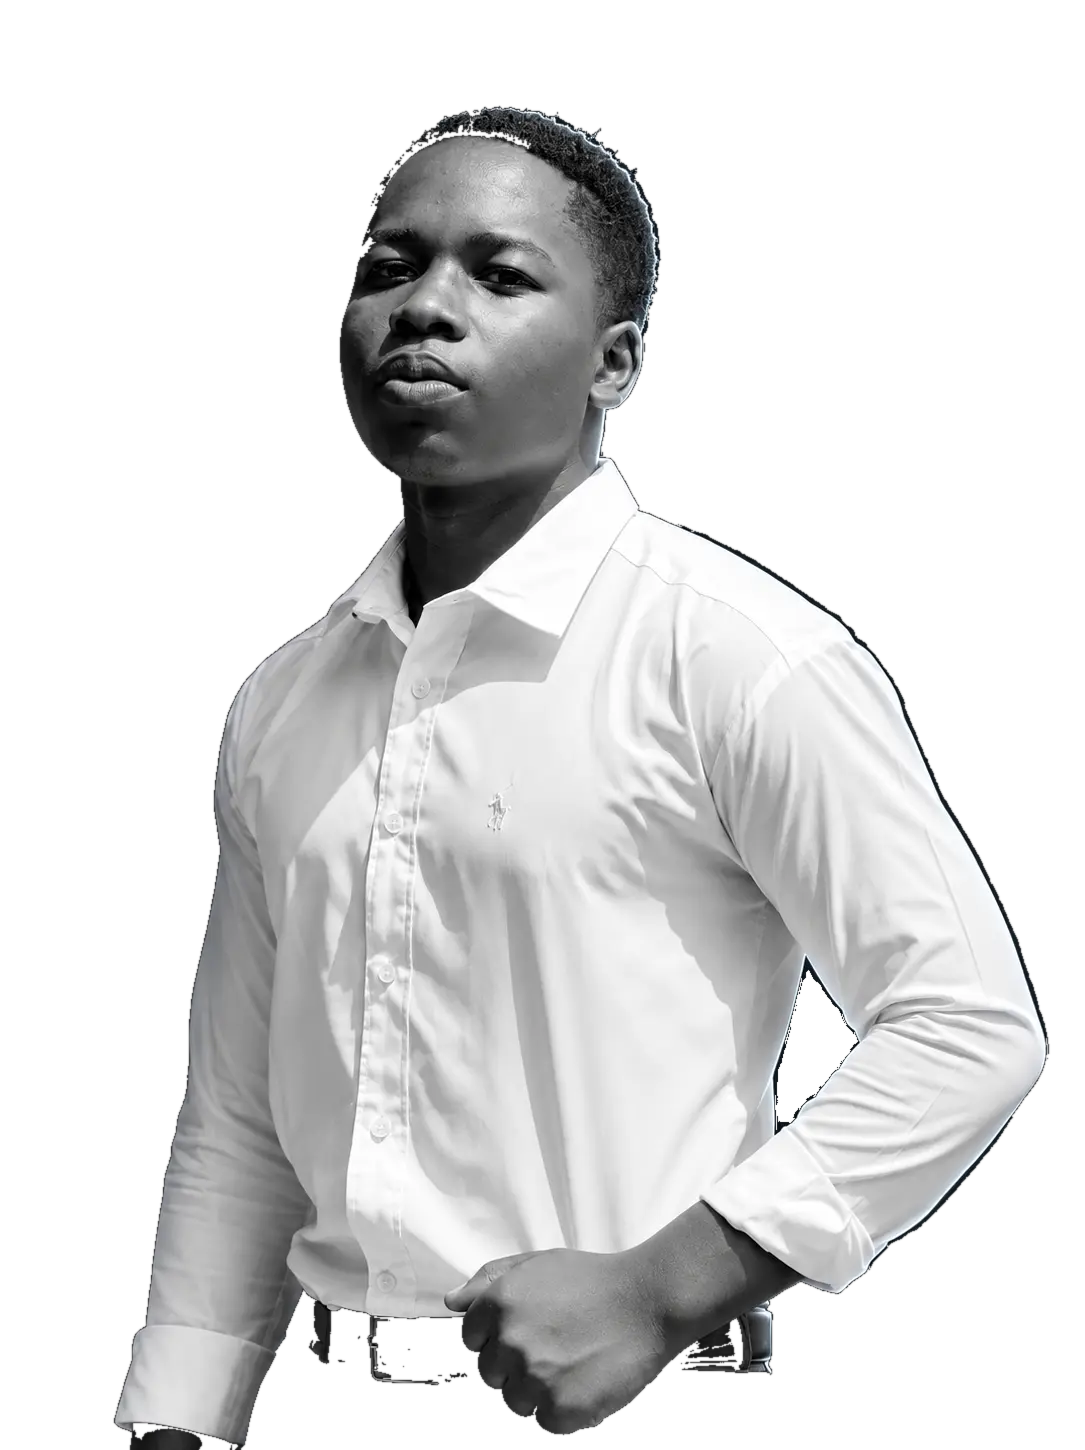
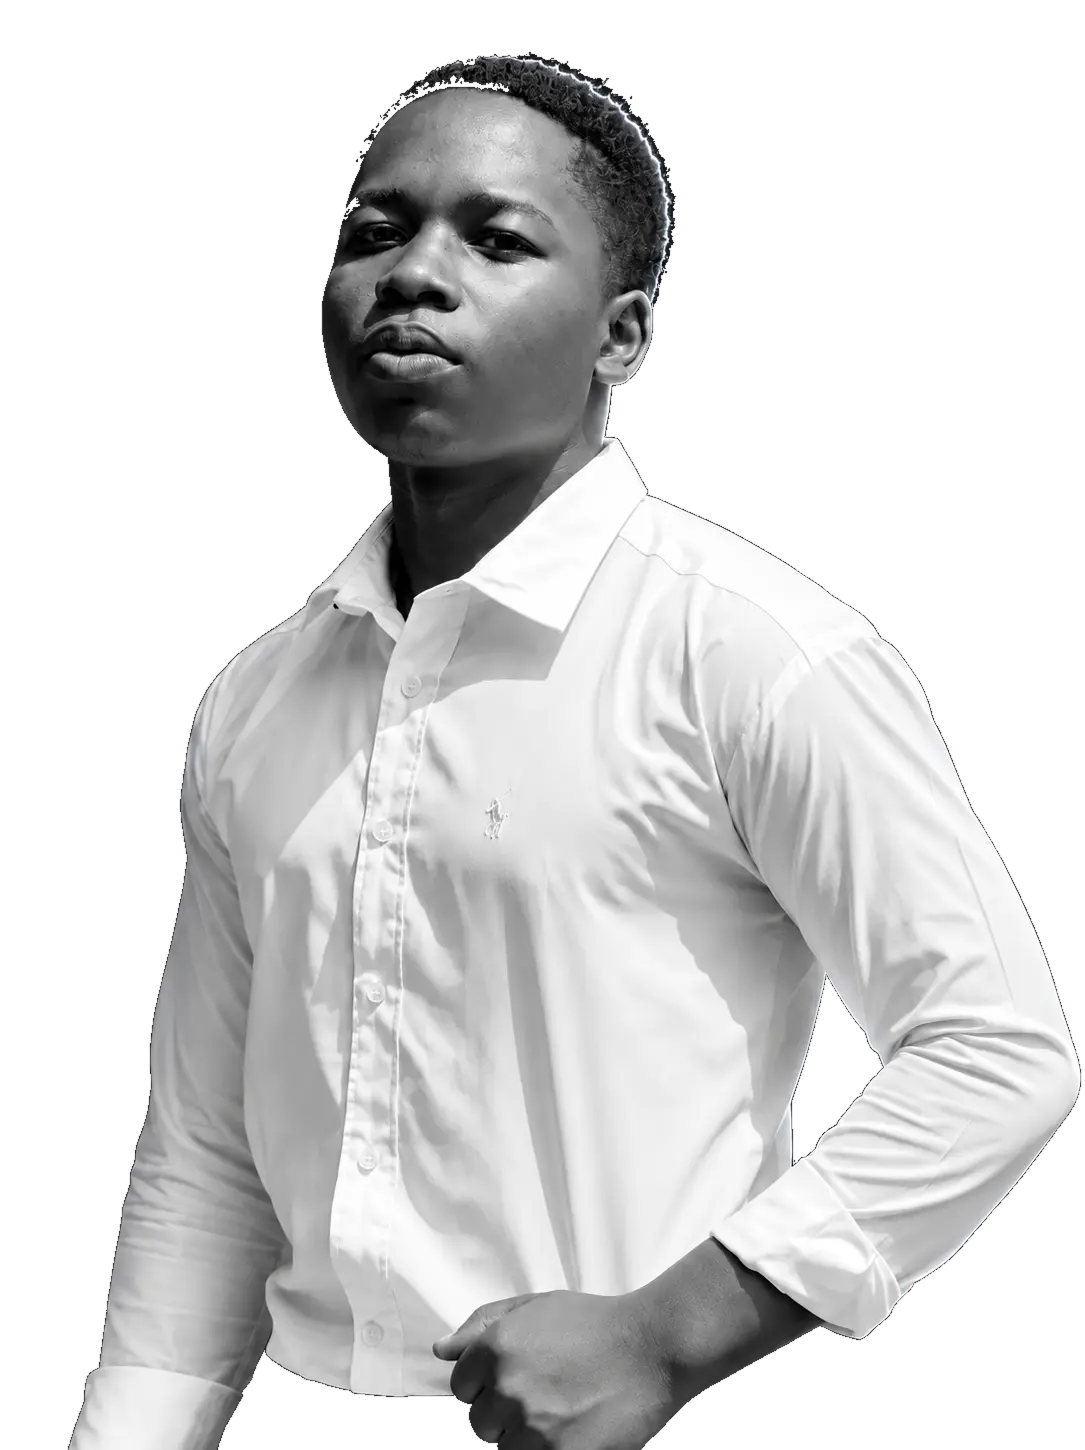
Finalize hero crop and bottom plate motion

diff --git a/app/globals.css b/app/globals.css
@@ -470,9 +470,9 @@ footer .brand-wordmark{width:176px}
   overflow:hidden;
   isolation:isolate;
 }
-.hero-visual{--portrait-shift:min(18vw,300px);--ribbon-opacity:0;--ribbon-scale:.12;--ribbon-shift:84px;position:absolute;inset:0;z-index:2;pointer-events:none}
+.hero-visual{--portrait-shift:min(18vw,300px);--ribbon-opacity:0;--ribbon-scale:.12;--ribbon-rise:58px;position:absolute;inset:0;z-index:2;pointer-events:none}
 .hero-real-portrait{
-  right:-3%;
+  right:2%;
   bottom:0;
   width:clamp(520px,45vw,980px);
   height:104%;
@@ -487,32 +487,30 @@ footer .brand-wordmark{width:176px}
   filter:contrast(1.06) brightness(.96) drop-shadow(-14px 10px 28px rgba(0,0,0,.7)) drop-shadow(2px -2px 13px rgba(220,247,255,.15))!important;
   transform-origin:70% 72%;
 }
-.hero-ribbons{position:absolute;z-index:0;right:-2%;top:15%;width:clamp(500px,43vw,900px);height:69%;filter:drop-shadow(0 0 25px rgba(69,230,255,.14))}
+.hero-ribbons{position:absolute;z-index:0;right:1%;bottom:0;width:clamp(520px,48vw,980px);height:clamp(120px,15vw,210px);opacity:var(--ribbon-opacity);transform:translateY(var(--ribbon-rise));filter:drop-shadow(0 0 25px rgba(69,230,255,.14));will-change:transform,opacity}
 .hero-ribbon{
   position:absolute;
-  right:0;
-  height:clamp(18px,2.3vw,34px);
+  bottom:0;
+  width:clamp(28px,3.1vw,56px);
   border:1px solid rgba(202,232,242,.54);
-  border-radius:999px 26px 26px 999px;
-  background:linear-gradient(180deg,#f4fbff 0%,#8da6b9 20%,#182c3a 47%,#67edff 53%,#d8f7ff 61%,#263c4a 100%);
+  border-radius:22px 22px 3px 3px;
+  background:linear-gradient(90deg,#142a38 0%,#91a9bb 18%,#f4fbff 38%,#55e7ff 54%,#d8f7ff 67%,#263c4a 100%);
   box-shadow:inset 0 2px rgba(255,255,255,.62),inset 0 -3px rgba(1,11,19,.68),0 0 22px rgba(69,230,255,.25);
-  opacity:var(--ribbon-opacity);
-  transform-origin:right center;
-  transform:translateX(var(--ribbon-shift)) scaleX(var(--ribbon-scale)) rotate(var(--ribbon-angle));
-  clip-path:polygon(0 28%,88% 0,100% 42%,94% 100%,7% 79%);
+  opacity:.72;
+  transform-origin:center bottom;
+  transform:scaleY(var(--ribbon-scale));
   will-change:transform,opacity;
 }
-.ribbon-a{--ribbon-angle:-29deg;top:6%;width:68%;right:2%}
-.ribbon-b{--ribbon-angle:-13deg;top:31%;width:91%;height:clamp(24px,3vw,48px);right:-5%}
-.ribbon-c{--ribbon-angle:11deg;top:58%;width:83%;right:0}
-.ribbon-d{--ribbon-angle:27deg;top:80%;width:58%;height:clamp(12px,1.7vw,25px);right:5%}
+.ribbon-a{left:2%;height:48%}.ribbon-b{left:16%;height:78%}.ribbon-c{left:31%;height:57%}.ribbon-d{left:48%;height:92%}.ribbon-e{left:65%;height:60%}.ribbon-f{left:80%;height:82%}.ribbon-g{right:1%;height:52%}
+.hero-visual.ribbons-visible .hero-ribbon{animation:plateBreathe 4.8s ease-in-out infinite}
+.hero-visual.ribbons-visible .ribbon-b,.hero-visual.ribbons-visible .ribbon-e{animation-delay:-1.6s}.hero-visual.ribbons-visible .ribbon-c,.hero-visual.ribbons-visible .ribbon-f{animation-delay:-3.1s}
 .hero-banner-copy{
   width:58vw!important;
   max-width:none!important;
   padding-left:clamp(24px,5vw,100px)!important;
   padding-right:clamp(18px,3vw,56px)!important;
 }
-.hero-banner-copy h1{width:100%;max-width:820px!important}
+.hero-banner-copy h1{width:100%;max-width:820px!important;font-size:clamp(46px,5vw,82px)!important}
 
 /* The dashboard founder feature is a full-width cinematic section; the founder page keeps its seated hero. */
 .founder-window{
@@ -542,11 +540,13 @@ footer .brand-wordmark{width:176px}
 .origin-opening-copy{padding:26px 28px 26px 0}
 .timeline-media img{object-position:center}
 
+@keyframes plateBreathe{0%,100%{opacity:.5;filter:brightness(.83)}50%{opacity:1;filter:brightness(1.18) drop-shadow(0 -8px 18px rgba(69,230,255,.28))}}
+
 @media(max-width:950px){
   .neo-hero.hero-banner{min-height:700px}
   .hero-banner-copy{width:68vw!important;padding-left:clamp(24px,4vw,48px)!important}
-  .hero-real-portrait{width:clamp(500px,58vw,700px);right:-12%;height:99%}
-  .hero-ribbons{width:58vw;right:-8%}
+  .hero-real-portrait{width:clamp(500px,58vw,700px);right:-7%;height:99%}
+  .hero-ribbons{width:60vw;right:-4%;height:150px}
   .founder-window{grid-template-columns:1fr;min-height:0}
   .founder-window-image{min-height:620px}
   .founder-window-image:after{background:linear-gradient(180deg,rgba(5,8,13,.12),transparent 45%,#05080d 100%)}
@@ -558,9 +558,9 @@ footer .brand-wordmark{width:176px}
   .hero-banner-copy h1{font-size:clamp(39px,11.5vw,58px)!important;max-width:92%!important;margin-top:28px!important}
   .hero-prompt{font-size:12px!important;max-width:76%!important}
   .hero-banner .hero-undertext{font-size:8.5px!important;max-width:72%!important}
-  .hero-real-portrait{width:82vw;min-width:360px;height:72%;right:-25%;bottom:0}
-  .hero-ribbons{width:76vw;min-width:340px;height:51%;right:-15%;top:43%}
-  .hero-ribbon{height:14px}.ribbon-b{height:22px}.ribbon-d{height:10px}
+  .hero-real-portrait{width:82vw;min-width:360px;height:72%;right:-19%;bottom:0}
+  .hero-ribbons{width:78vw;min-width:350px;height:112px;right:-10%;bottom:0}
+  .hero-ribbon{width:28px}
   .hero-banner:after{background:linear-gradient(90deg,rgba(2,3,4,.97) 0%,rgba(2,3,4,.77) 45%,rgba(2,3,4,.08) 78%),linear-gradient(0deg,rgba(2,3,4,.72),transparent 60%)}
   .founder-window{margin-bottom:90px}
   .founder-window-image{min-height:500px}
@@ -573,5 +573,6 @@ footer .brand-wordmark{width:176px}
 @media(prefers-reduced-motion:reduce){
   .hero-real-portrait{opacity:1;transform:none;animation:none!important}
   .hero-real-portrait img{animation:none!important}
-  .hero-ribbon{opacity:.72;transform:rotate(var(--ribbon-angle));animation:none!important}
+  .hero-ribbons{opacity:.72;transform:none}
+  .hero-ribbon{opacity:.72;transform:none;animation:none!important}
 }

diff --git a/app/kinetic.tsx b/app/kinetic.tsx
@@ -22,7 +22,8 @@ export function HeroPortrait() {
         node.style.setProperty("--portrait-shift", `${(1 - progress) * maximumShift}px`);
         node.style.setProperty("--ribbon-opacity", `${ribbonProgress * 0.78}`);
         node.style.setProperty("--ribbon-scale", `${0.12 + ribbonProgress * 0.88}`);
-        node.style.setProperty("--ribbon-shift", `${(1 - ribbonProgress) * 84}px`);
+        node.style.setProperty("--ribbon-rise", `${(1 - ribbonProgress) * 58}px`);
+        node.classList.toggle("ribbons-visible", ribbonProgress > 0.02);
       });
     };
     update();
@@ -41,9 +42,12 @@ export function HeroPortrait() {
       <span className="hero-ribbon ribbon-b" />
       <span className="hero-ribbon ribbon-c" />
       <span className="hero-ribbon ribbon-d" />
+      <span className="hero-ribbon ribbon-e" />
+      <span className="hero-ribbon ribbon-f" />
+      <span className="hero-ribbon ribbon-g" />
     </div>
     <div className="hero-real-portrait">
-      <img src="/founder/hero-white-shirt-cutout.webp?v=20260908-scroll" alt="" />
+      <img src="/founder/hero-white-shirt-cutout.webp?v=20260908-final" alt="" />
     </div>
   </div>;
 }
